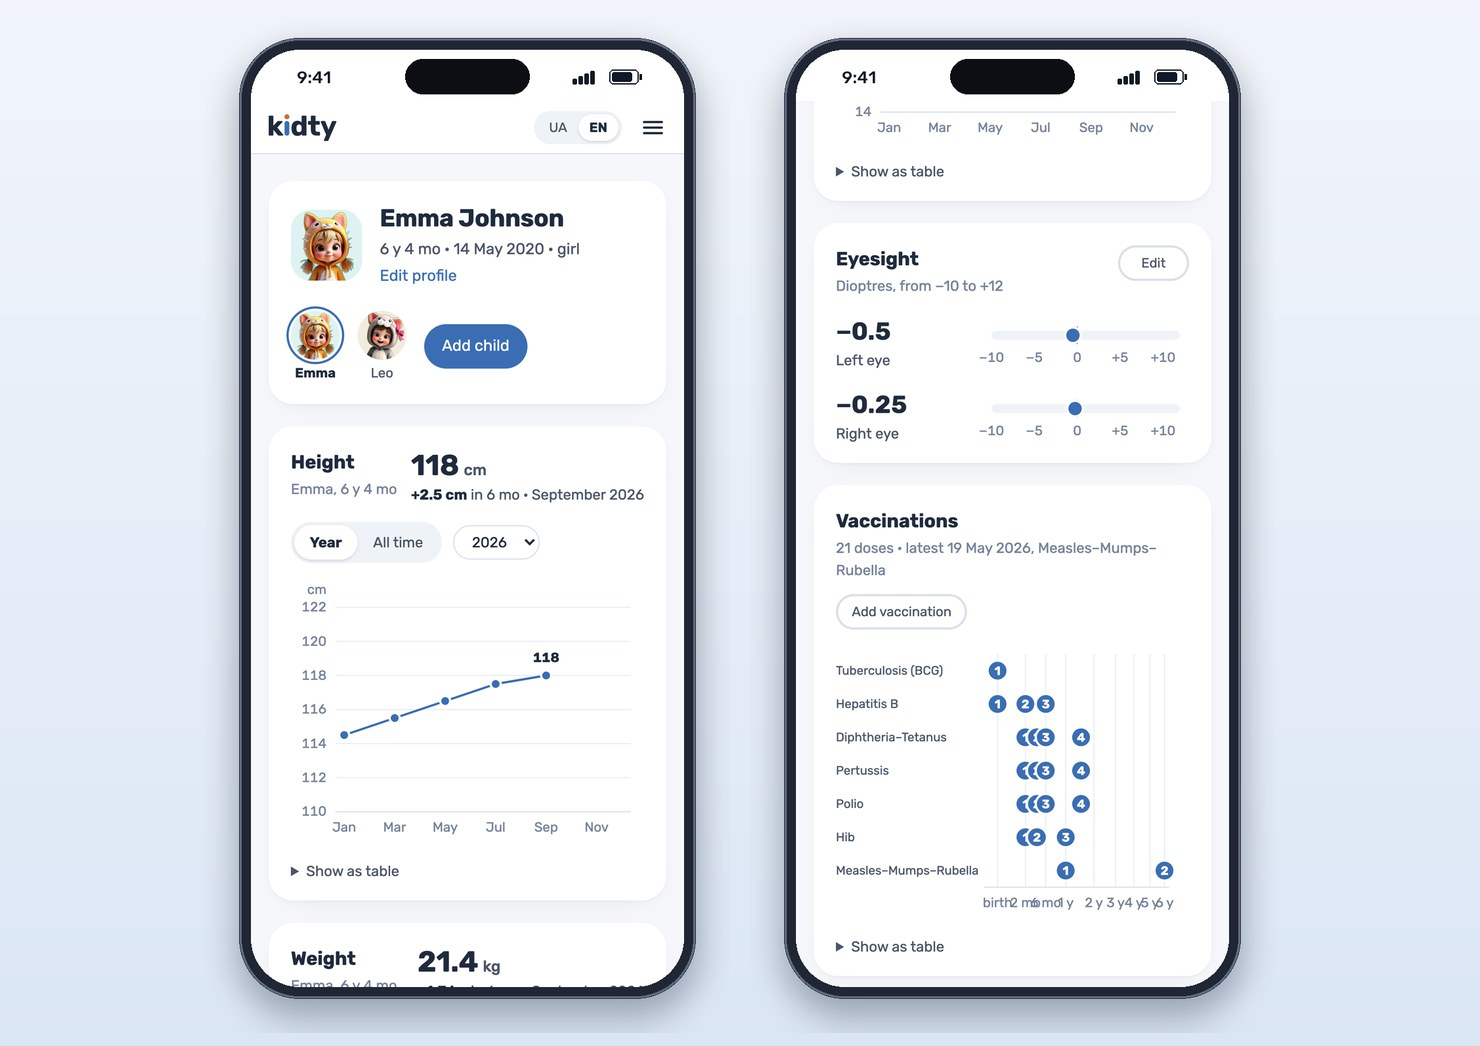
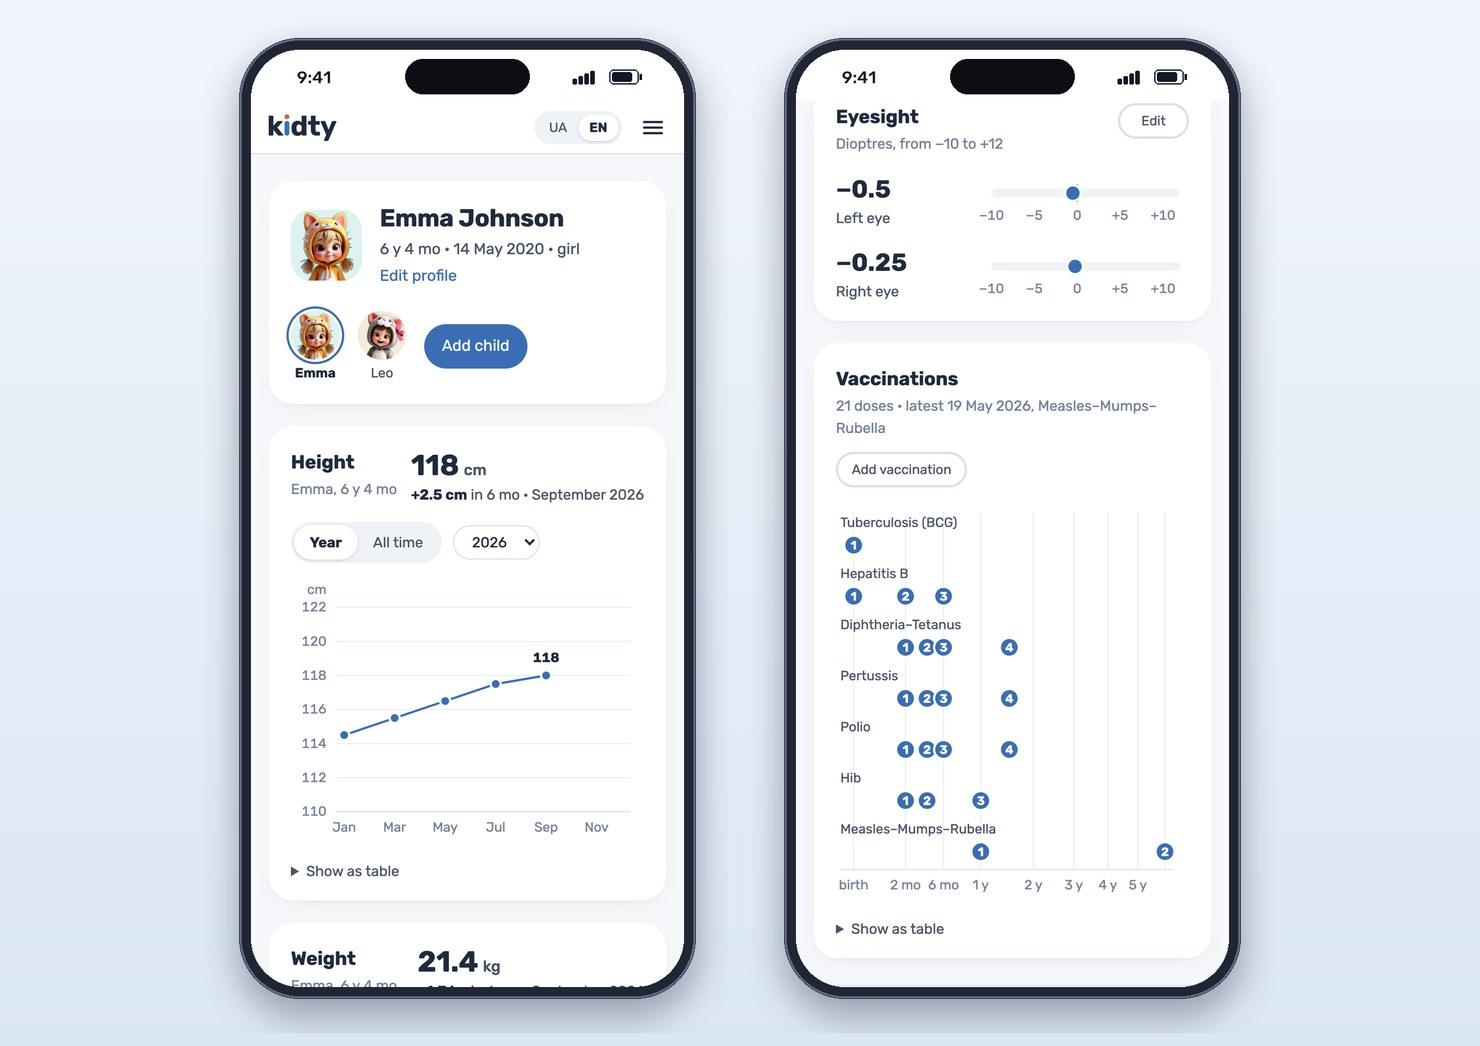
Rewrite the Kidty case study and update its phone screenshot

diff --git a/src/data/projects.ts b/src/data/projects.ts
@@ -140,11 +140,11 @@ export const projects: Project[] = [
     featured: true,
     title: "Kidty",
     subtitle: "Customisable health data visualisation for parents",
-    tagline: "HealthTech app for tracking a child's development.",
+    tagline: "A child's growth journal: height, weight, eyesight and vaccinations as clear charts.",
     kind: "design+development",
-    role: "Frontend Developer",
-    year: "2024 — 2025",
-    stack: ["React", "TypeScript", "React Router", "D3", "REST API", "Docker"],
+    role: "UX/UI Designer & Frontend Developer",
+    year: "2024 — 2026",
+    stack: ["React", "TypeScript", "D3", "Tailwind CSS", "i18next", "Node.js", "Fastify", "PostgreSQL", "Prisma"],
     tags: ["Health", "D3", "Data viz"],
     url: "https://kidty.com.ua/",
     urlLabel: "kidty.com.ua",
@@ -152,19 +152,20 @@ export const projects: Project[] = [
     images: kidtyImages,
     accent: "#3A6DB3",
     overview:
-      "Kidty is a HealthTech web app that helps parents and paediatricians track a child's development over time and see it in context — growth curves, percentiles and custom measurements — instead of reading raw numbers from a notebook.",
+      "Kidty is a free web app for parents. It tracks a child's height, weight, foot size, eyesight and vaccinations and shows them as charts, so the numbers no longer sit scattered across notes. It works in English and Ukrainian.",
     challenge:
-      "Medical data is stressful to look at. The visualisations had to be accurate enough for a doctor and gentle enough for a worried parent at 2 a.m., on a phone. TODO: add the project's origin and audience details.",
+      "Growth numbers are easy to write down and hard to read. One month's height says little until you see it next to the past few years. The charts had to be exact enough to show a trend and calm enough for a parent checking on a phone. The first version, from 2024–2025, had also aged: its purple interface was loud, it was in Ukrainian only, and its backend was hard to host.",
     process: [
-      "Researched how paediatric growth charts are read and which comparisons parents actually care about.",
-      "Prototyped chart types in D3 to find a balance between precision (percentile bands, exact points) and calm visual language.",
-      "Built the app from scratch in React + TypeScript with Context API for state; configurable chart components so each family can choose what to track; Docker for deployment.",
-      "Led the team: defined the business logic and the architecture of client–server interactions with the backend developers.",
+      "Built the first version in 2024–2025 with a small team, in React and TypeScript with D3 charts. I led the team and defined the business logic and the client–server contract with the backend developer.",
+      "Redesigned the product around a calm \"blue and copper\" system: neutral surfaces, one blue for data, and copper only as a small accent. A new logo turns the i in kidty into a growth figure.",
+      "Rebuilt the charts in D3. Height, weight and foot size each have a year view and an all-time view. The vaccination timeline uses a square-root age axis so the busy first year gets room. Every chart has hover tooltips and a table view.",
+      "Replaced the backend with Node.js and TypeScript: Fastify, Prisma and PostgreSQL. It has cookie sessions, password reset by email, and typed error codes that the client translates.",
+      "Added English alongside Ukrainian with i18next, moved to Vite, React 19, Tailwind and HeroUI, and deployed on GitHub Pages, Render and Neon.",
     ],
     solution:
-      "A set of reusable D3 chart components with a soft, monochrome base and a single accent for the child's own line, responsive down to phone width, with clear empty and loading states.",
+      "Each child has a calm dashboard with growth cards (year and all-time views), an eyesight scale and a vaccination timeline. Every screen is built from reusable D3 components on a design system documented in the repository, and the layout works down to phone width.",
     result:
-      "Shipped and live at kidty.com.ua. TODO: add user feedback or metrics.",
+      "Live at kidty.com.ua, free, in English and Ukrainian, with its own backend and email. The design system, logo and link preview are documented, so new screens stay consistent.",
   },
   {
     id: "phone-catalog",
